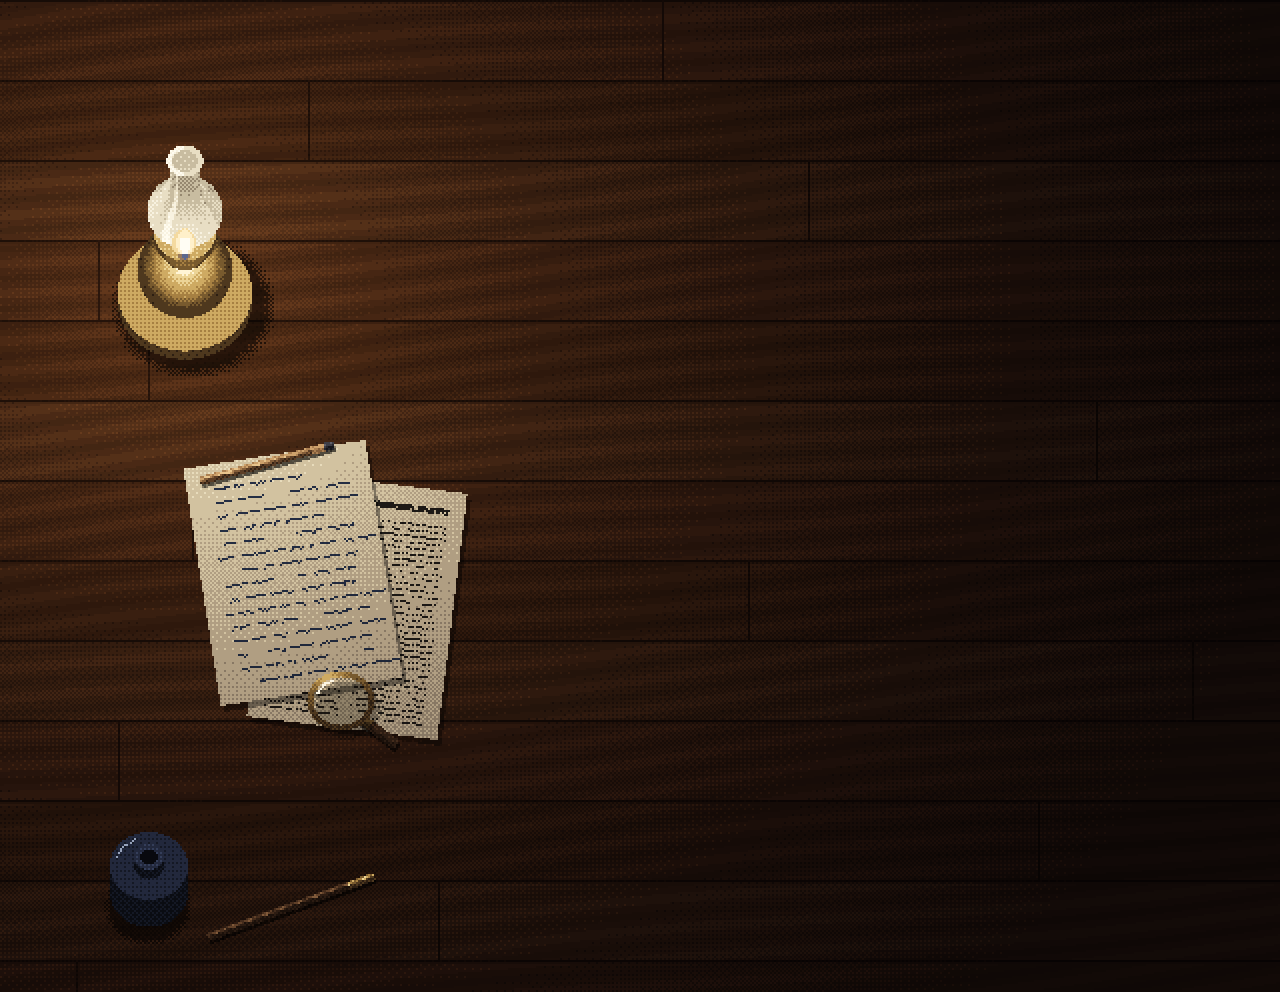
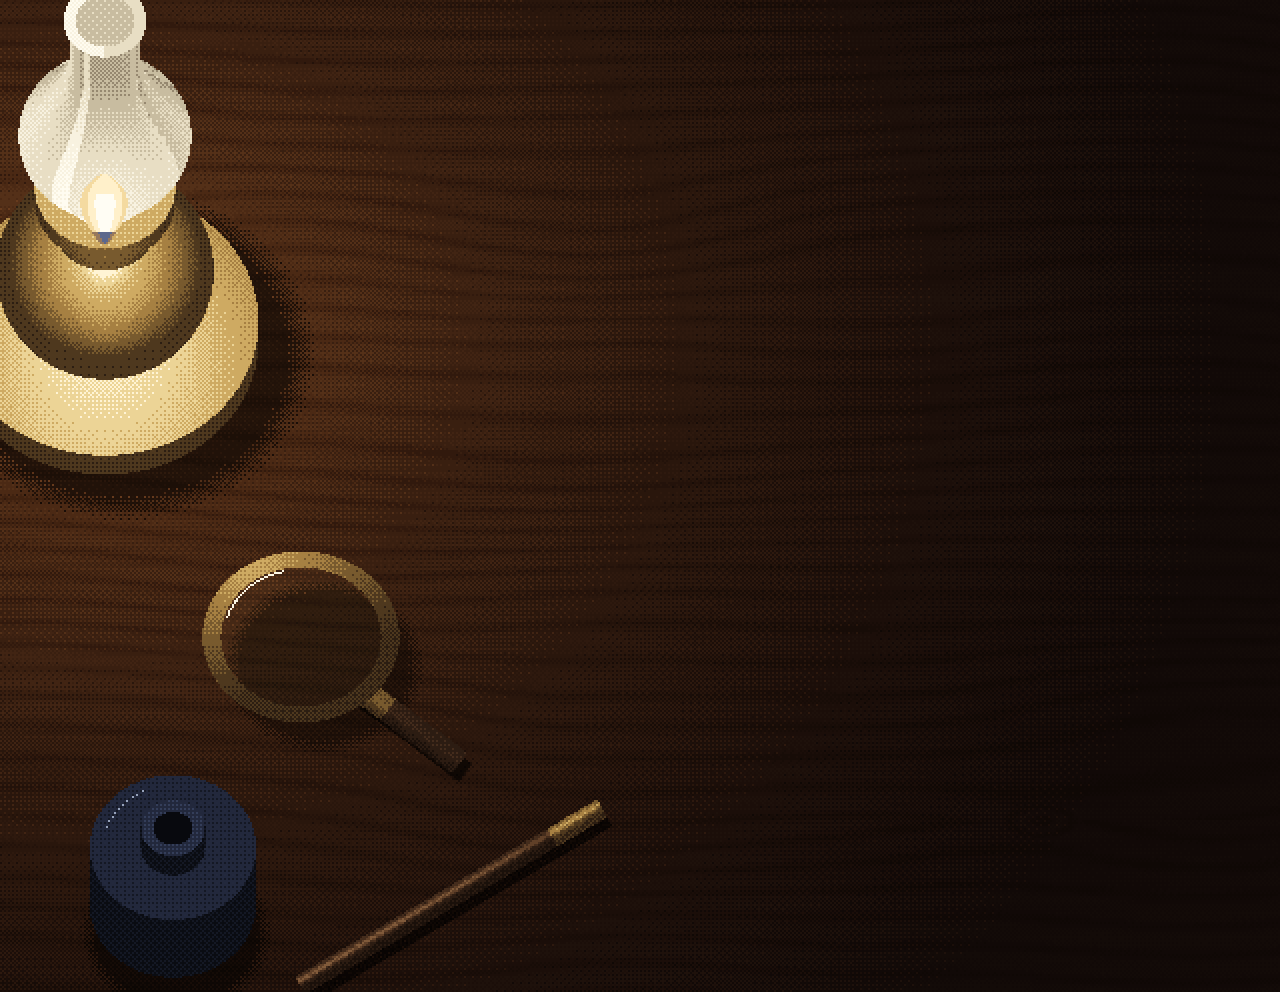
fix: 标题页桌面改为整块木板，油灯放大外移，物件按册子定比例
- 桌面去掉地板式拼缝：纹线近乎平行、贯穿全宽、间距不匀，带一个节疤。
- 油灯放大约一倍并移向左上，灯身一部分出画；底盘按火焰受光，光晕减弱，不再盖掉黄铜。
- 去掉左中的手记、剪报与铅笔；放大镜留在左中桌面上。
- 墨水瓶（约 42 mm）、蘸水笔（约 160 mm，笔尖压在册子下）与放大镜（镜片约 50 mm）
  按 A5 册子的比例（约 1.96 px/mm）重定尺寸。
- 验收截图：artifacts/ui-graphic-design/book-09。

diff --git a/godot_csharp/tools/build_ui_desk.py b/godot_csharp/tools/build_ui_desk.py
@@ -4,7 +4,7 @@
 木桌与黄铜油灯；光照分 7 级，级间 4×4 有序抖色，光池以灯脚为中心、纵向略压。
 灯光取低饱和暖白，不用琥珀（恶魔专属）。原生 640×496，按最近邻放大 2 倍到 1280×992；随机种子固定，可重建。
 
-    desk.png        桌面×灯光，含油灯与桌上物件（墨水瓶与蘸水笔、手记与剪报、放大镜、石墨笔；不含光晕）
+    desk.png        整块木桌面×灯光，含油灯与桌上物件（墨水瓶与蘸水笔、放大镜，尺寸按册子定比例；不含光晕）
                     物件按法线逐像素着色，量化到材质色阶，级间同样用有序抖色
     glow.png        灯焰光晕（RGBA，叠加混合；标题页让它轻微闪动）
     book_light.png  册子表面的乘色光照（屏幕坐标，标题页的册子着色器按屏幕 UV 取样）
@@ -24,9 +24,12 @@ OUT = Path(__file__).resolve().parents[1] / "ShareAsset" / "Internal" / "Props" 
 W, H, S = 640, 496, 2
 ELEV_K = 0.5               # 竖直高度在画面上的缩短（cos 60°）
 ELEV_Q = 0.87              # 水平圆的纵横比（sin 60°）
-LAMP_SCALE = 1.4           # 油灯尺寸倍率
-INK_SCALE = 1.5            # 墨水瓶尺寸倍率
-FOOT = (92, 150)           # 灯脚（光池中心）
+# 尺寸按册子定比例：册子 A5（148 mm 宽）在原生画面上 290 px，约 1.96 px/mm。
+MM = 1.96
+LAMP_SCALE = 3.2           # 油灯尺寸倍率（底盘约 80 mm）
+INK_SCALE = 3.2            # 墨水瓶尺寸倍率（瓶身约 42 mm）
+MAG_SCALE = 2.9            # 放大镜尺寸倍率（镜片约 50 mm）
+FOOT = (52, 170)           # 灯脚（光池中心），靠左上外移，灯身一部分出画
 FLAME_HEIGHT = round(38 * LAMP_SCALE)   # 火焰离桌面的高度（原生像素）
 FLAME = (FOOT[0], FOOT[1] - round(FLAME_HEIGHT * ELEV_K))
 SQUASH = 1 / ELEV_Q
@@ -50,28 +53,53 @@ def ell(x: float, y: float, rx: float, ry: float) -> bool:
     return (x / rx) ** 2 + (y / ry) ** 2 <= 1
 
 
+def value_noise(seed: int, cell: float):
+    rng = random.Random(seed)
+    table = {}
+
+    def at(ix: int, iy: int) -> float:
+        key = (ix, iy)
+        if key not in table:
+            table[key] = rng.random()
+        return table[key]
+
+    def sample(x: float, y: float) -> float:
+        cx, cy = x / cell, y / cell
+        ix, iy = math.floor(cx), math.floor(cy)
+        tx, ty = cx - ix, cy - iy
+        sx, sy = tx * tx * (3 - 2 * tx), ty * ty * (3 - 2 * ty)
+        a = at(ix, iy) * (1 - sx) + at(ix + 1, iy) * sx
+        b = at(ix, iy + 1) * (1 - sx) + at(ix + 1, iy + 1) * sx
+        return a * (1 - sy) + b * sy
+    return sample
+
+
 def wood() -> Image.Image:
-    rng = random.Random(7)
+    """整块木桌面：一块板，没有拼缝。纹线近乎平行、贯穿全宽，间距不匀、缓慢漂移；
+    细纤维沿横向拉长；右下一个节疤，纹线绕开它。三档明暗，档间有序抖色。"""
+    drift = value_noise(7, 260.0)       # 纹线整体的缓慢起伏
+    spacing = value_noise(11, 60.0)     # 纹距的疏密
+    fibre = value_noise(19, 3.0)        # 细纤维（横向拉长取样）
+    knot = (520, 410)
     im = Image.new("RGB", (W, H))
     px = im.load()
-    base = [(120, 78, 50), (112, 72, 46), (126, 84, 54)]
-    plank_h = 40
-    seams = {row: rng.randrange(0, W) for row in range(H // plank_h + 2)}
-    phase = [rng.random() * 6.28 for _ in range(32)]
+    tones = [(96, 60, 38), (112, 72, 46), (126, 84, 54)]
     for y in range(H):
-        row, yy = y // plank_h, y % plank_h
-        c0 = base[row % 3]
         for x in range(W):
-            g = math.sin(x * 0.045 + phase[row % 32] + math.sin(x * 0.011 + row) * 2.2 + yy * 0.42)
-            k = 0.88 + (0.12 if g > 0.55 else 0) - (0.08 if g < -0.75 else 0)
-            c = tuple(int(v * k) for v in c0)
-            if yy == 0:
-                c = (46, 28, 20)
-            elif yy == 1:
-                c = tuple(int(v * 0.8) for v in c0)
-            if x == seams[row]:
-                c = (52, 32, 22)
-            px[x, y] = c
+            kx, ky = (x - knot[0]) / 2.2, y - knot[1]
+            kd = math.hypot(kx, ky)
+            bend = 18.0 * math.exp(-kd / 20.0) * (1 if ky >= 0 else -1)
+            yy = y + 30.0 * drift(x, y * 0.6) + bend
+            phase = yy * 0.22 + 6.0 * spacing(x * 0.4, yy)
+            line = abs(math.sin(phase)) ** 6           # 细而暗的纹线
+            band = spacing(x * 0.25, yy * 1.5)          # 早材晚材的宽窄色带
+            g = 0.55 * line + 0.3 * band + 0.25 * fibre(x * 0.12, y)
+            if kd < 9:
+                g = 0.25 + 0.6 * (math.sin(kd * 1.1) * 0.5 + 0.5)
+            v = max(0.0, min(1.0, 1.0 - g)) * (len(tones) - 1)
+            lo = int(v)
+            i = min(len(tones) - 1, lo + (1 if v - lo > (BAYER[y % 4][x % 4] + 0.5) / 16 else 0))
+            px[x, y] = tones[i]
     return im
 
 
@@ -82,12 +110,7 @@ def wood() -> Image.Image:
 BRASS = [(44, 30, 18), (78, 56, 30), (120, 90, 46), (166, 128, 66), (206, 170, 98), (236, 212, 150), (255, 244, 212)]
 INK_GLASS = [(10, 12, 18), (20, 24, 36), (34, 40, 60), (52, 62, 90), (84, 98, 128), (150, 162, 186), (226, 230, 236)]
 WOOD_DARK = [(26, 16, 10), (44, 28, 18), (68, 44, 28), (96, 64, 40), (128, 90, 58), (170, 128, 86)]
-CEDAR = [(54, 36, 22), (92, 62, 38), (132, 94, 58), (172, 128, 82), (206, 162, 108), (232, 196, 140)]
-PAPER = [(60, 52, 46), (96, 84, 72), (136, 120, 100), (176, 158, 130), (210, 194, 160), (232, 220, 188), (246, 238, 214)]
-GRAPHITE = [(22, 22, 26), (40, 40, 46), (62, 62, 70), (96, 96, 106), (150, 150, 160)]
 GLASS = [(96, 84, 70), (150, 136, 112), (200, 188, 160), (232, 222, 196), (248, 242, 224), (255, 252, 240)]
-HAND_INK = (47, 59, 87)
-PRINT_INK = (40, 34, 30)
 
 
 def ramp(colors, v: float, x: int, y: int):
@@ -114,7 +137,7 @@ def light_at(x: float, y: float, lift: float = 24.0):
     return norm((FLAME[0] - x, FLAME[1] - y, lift))
 
 
-def lit(n, x: int, y: int, ambient=0.18, gloss=0.0, power=24, lift=40.0) -> float:
+def lit(n, x: int, y: int, ambient=0.18, gloss=0.0, power=24, lift=90.0) -> float:
     """漫反射 + 高光，乘上此处的灯光强度。"""
     L = light_at(x, y, lift)
     diffuse = max(0.0, dot(n, L))
@@ -215,7 +238,7 @@ def lamp3d(cv: Canvas) -> None:
     k = LAMP_SCALE
     y_at = lambda h: fy - h * k * ELEV_K
     shadow_ellipse(cv, cx + 3 * k, fy + 2 * k, 30 * k, 30 * k * ELEV_Q, 0.45)
-    cylinder(cv, cx, y_at(6), y_at(0), 24 * k, 24 * k * ELEV_Q, BRASS, gloss=0.35, top_v=0.62)
+    cylinder(cv, cx, y_at(6), y_at(0), 24 * k, 24 * k * ELEV_Q, BRASS, gloss=0.15)
     sphere(cv, cx, y_at(22), 17 * k, 17 * k, BRASS, gloss=0.55)
     cylinder(cv, cx, y_at(44), y_at(36), 8 * k, 8 * k * ELEV_Q, BRASS, gloss=0.6)
     cylinder(cv, cx, y_at(48), y_at(44), 11 * k, 11 * k * ELEV_Q, BRASS, gloss=0.6, top_v=0.7)
@@ -274,8 +297,8 @@ def inkwell(cv: Canvas, cx: int, fy: int) -> None:
     cylinder(cv, cx, fy - 18 * k * ELEV_K, fy, 13 * k, 13 * k * ELEV_Q, INK_GLASS, gloss=0.45, top_v=0.3)
     cylinder(cv, cx, fy - 24 * k * ELEV_K, fy - 18 * k * ELEV_K, 5 * k, 5 * k * ELEV_Q, INK_GLASS, gloss=0.45, top_v=0.38)
     mouth = fy - 24 * k * ELEV_K
-    for y in range(int(mouth) - 6, int(mouth) + 7):
-        for x in range(cx - 6, cx + 7):
+    for y in range(int(mouth - 4 * k), int(mouth + 4 * k) + 1):
+        for x in range(int(cx - 4 * k), int(cx + 4 * k) + 1):
             if ell(x - cx, y - mouth, 3 * k, 3 * k * ELEV_Q):
                 cv.put(x, y, (8, 9, 14))
     # 瓶肩一道弧形反光（朝灯一侧）
@@ -285,71 +308,16 @@ def inkwell(cv: Canvas, cx: int, fy: int) -> None:
         cv.put(int(round(cx + 11 * k * math.cos(theta))), int(round(top + 11 * k * ELEV_Q * math.sin(theta))), INK_GLASS[5])
 
 
-def sheet(cv: Canvas, cx, cy, w, h, angle_deg, kind: str, seed: int) -> list:
-    """一页散纸：kind = hand（本人手记，笔迹色短划）或 print（剪报，两栏印刷灰块与一道标题）。返回四角。"""
-    rng = random.Random(seed)
-    a = math.radians(angle_deg)
-    ca, sa = math.cos(a), math.sin(a)
-    def to_local(x, y):
-        dx, dy = x - cx, y - cy
-        return dx * ca + dy * sa + w / 2, -dx * sa + dy * ca + h / 2
-    corners = [(cx + (u - w / 2) * ca - (v - h / 2) * sa, cy + (u - w / 2) * sa + (v - h / 2) * ca) for u, v in ((0, 0), (w, 0), (w, h), (0, h))]
-    xs = [p[0] for p in corners]
-    ys = [p[1] for p in corners]
-    # 纸很薄：影子只偏 2、3 像素
-    for y in range(int(min(ys)), int(max(ys)) + 4):
-        for x in range(int(min(xs)), int(max(xs)) + 4):
-            u, v = to_local(x - 2, y - 3)
-            if 0 <= u < w and 0 <= v < h:
-                cv.darken(x, y, 0.6)
-    marks = {}
-    if kind == "hand":
-        for row in range(12, h - 8, 7):
-            u = 10 + rng.randint(0, 4)
-            while u < w - 10:
-                length = rng.randint(4, 14)
-                if rng.random() > 0.12:
-                    for k in range(length):
-                        marks[(u + k, row + (1 if rng.random() < 0.15 else 0))] = HAND_INK
-                u += length + rng.randint(2, 4)
-            if rng.random() < 0.25:
-                row += 3
-    else:
-        for u in range(8, w - 8):
-            for v in (9, 10, 11):
-                if rng.random() < 0.85:
-                    marks[(u, v)] = PRINT_INK
-        col_w = (w - 22) // 2
-        for col in range(2):
-            u0 = 8 + col * (col_w + 6)
-            for row in range(18, h - 6, 3):
-                for u in range(u0, u0 + col_w):
-                    if rng.random() < 0.55:
-                        marks[(u, row)] = PRINT_INK
-    for y in range(int(min(ys)) - 1, int(max(ys)) + 2):
-        for x in range(int(min(xs)) - 1, int(max(xs)) + 2):
-            u, v = to_local(x, y)
-            if not (0 <= u < w and 0 <= v < h):
-                continue
-            light = desk_light(x, y) * 1.08
-            ink = marks.get((int(u), int(v)))
-            if ink is not None:
-                k = 0.35 + 0.65 * light
-                cv.put(x, y, tuple(int(c * k) for c in ink))
-            else:
-                cv.put(x, y, ramp(PAPER, light, x, y))
-    return corners
-
-
 def magnifier(cv: Canvas, cx: int, cy: int) -> None:
     """侦探的放大镜：黄铜圆框（3/4 俯视成椭圆）、短柄；镜片下的纸被放大得更亮，内缘一道高光。"""
-    rx, ring = 17.0, 3.2
+    k = MAG_SCALE
+    rx, ring = 17.0 * k, 3.2 * k
     ry = rx * ELEV_Q
     handle_a = (cx + rx * 0.72, cy + ry * 0.72)
-    handle_b = (cx + rx * 0.72 + 15, cy + ry * 0.72 + 11)
-    stroke(cv, (handle_a[0] - 2, handle_a[1] - 1.5), (handle_a[0] + 3, handle_a[1] + 2), 4, BRASS)
-    stroke(cv, (handle_a[0] + 3, handle_a[1] + 2), handle_b, 4, WOOD_DARK)
-    shadow_ellipse(cv, cx + 3, cy + 4, rx + 1, ry + 1, 0.7)
+    handle_b = (cx + rx * 0.72 + 15 * k, cy + ry * 0.72 + 11 * k)
+    shadow_ellipse(cv, cx + 4 * k, cy + 5 * k, rx + 1, ry + 1, 0.62)
+    stroke(cv, (handle_a[0] - 2 * k, handle_a[1] - 1.5 * k), (handle_a[0] + 3 * k, handle_a[1] + 2 * k), 4 * k, BRASS, shadow=(3, 5))
+    stroke(cv, (handle_a[0] + 3 * k, handle_a[1] + 2 * k), handle_b, 4 * k, WOOD_DARK, shadow=(3, 5))
     for y in range(int(cy - ry) - 1, int(cy + ry) + 2):
         for x in range(int(cx - rx) - 1, int(cx + rx) + 2):
             outer = ell(x - cx, y - cy, rx, ry)
@@ -363,37 +331,23 @@ def magnifier(cv: Canvas, cx: int, cy: int) -> None:
             theta = math.atan2((y - cy) / ry, (x - cx) / rx)
             n = norm((math.cos(theta), math.sin(theta) - 0.3, 0.8))
             cv.put(x, y, ramp(BRASS, lit(n, x, y, gloss=0.9), x, y))
-    for i in range(14):
-        theta = math.radians(200 + i * 4)
+    for i in range(40):
+        theta = math.radians(198 + i * 1.5)
         x = int(round(cx + (rx - ring - 1.5) * math.cos(theta)))
         y = int(round(cy + (ry - ring * ELEV_Q - 1.2) * math.sin(theta)))
         cv.put(x, y, (252, 246, 228))
 
 
-def pencil(cv: Canvas, a, b) -> None:
-    """石墨笔：木杆，削尖的一端露出木色锥面与笔芯。"""
-    def colors(s):
-        if s > 0.94:
-            return GRAPHITE
-        if s > 0.84:
-            return CEDAR[2:]
-        return CEDAR
-    stroke(cv, a, b, 3, colors)
-
-
-def dip_pen(cv: Canvas, a, b) -> None:
-    """蘸水笔：深色木杆，前端一截黄铜笔舌。"""
-    stroke(cv, a, b, 3, lambda s: BRASS if s > 0.86 else WOOD_DARK)
+def dip_pen(cv: Canvas, a, b, width: float = 9) -> None:
+    """蘸水笔：深色木杆渐细，前端一截黄铜笔舌（约 160 mm 长、5 mm 粗）。"""
+    stroke(cv, a, b, width, lambda s: BRASS if s > 0.84 else WOOD_DARK, shadow=(3, 5))
 
 
 def desk_objects(cv: Canvas) -> None:
+    magnifier(cv, 150, 318)
+    inkwell(cv, 86, 452)
+    dip_pen(cv, (150, 492), (300, 404))
     lamp3d(cv)
-    sheet(cv, 178, 302, 96, 124, 7, "print", 3)
-    sheet(cv, 146, 286, 92, 120, -9, "hand", 5)
-    pencil(cv, (100, 240), (166, 222))
-    magnifier(cv, 170, 350)
-    inkwell(cv, 74, 446)
-    dip_pen(cv, (104, 468), (186, 438))
 
 
 def glow() -> Image.Image:
@@ -403,11 +357,11 @@ def glow() -> Image.Image:
     for y in range(H):
         for x in range(W):
             d = math.hypot(x - FLAME[0], (y - FLAME[1]) * 1.05)
-            v = max(0.0, 1 - d / 120.0) ** 1.4 * 3
+            v = max(0.0, 1 - d / 170.0) ** 1.4 * 3
             lo = int(v)
             lv = min(3, lo + (1 if v - lo > (BAYER[y % 4][x % 4] + 0.5) / 16 else 0))
             if lv:
-                px[x, y] = (255, 238, 200, (0, 34, 70, 120)[lv])
+                px[x, y] = (255, 238, 200, (0, 24, 50, 88)[lv])
     return im
 
 

diff --git a/docs/design-standard.md b/docs/design-standard.md
@@ -1214,7 +1214,7 @@ Core 不出现专案名词。
 | 学园图 `CampusMap/CampusMap` | 纸面上的线路图：线只走水平、垂直、45°，站点空心圆，当前站点笔迹色实心并手写“你在这里”；编辑器预览读 Workbench 样例 |
 | 设置册 `Settings/SettingsBook` | 摊开的册子，三张索引签：凡例（左页画面、声音，右页语言、无障碍）、操作（按移动 / 现场 / 对话 / 回放 / 系统分组改键，含快进按住或切换）、书签（三个存档位与所选书签的详情；撕去书签 / 夹在此页 / 从此处读起）。现场与对话中按设置键（F1）打开，现场空闲时返回键（Esc）也打开；标题页由“凡例”打开。读写都经 `GameSettings` |
 | 章末卡 `Ending/EndingCard` | 报纸头版式：通栏标题、副题（`outcome`）、各行分栏列出 |
-| 标题页 `Title/Title` | 油灯下木桌上合着的一本册子，竖开 1 : √2，在桌面上斜放约 4°；近俯视（约 60° 往下看，竖直高度减半，水平的圆接近正圆）：册子平放，近侧露出一线书页厚度，投影硬边偏向右下；油灯、墨水瓶与蘸水笔、本人手记与剪报、放大镜、石墨笔都按法线逐像素着色，再量化到各自材质的几级色阶、级间有序抖色，与桌面光照同一手法；光池以灯脚为中心、纵向略压。封面在不旋转的子视口里排版，显示时旋转并按最近邻取样；点击坐标经同一变换的逆变换映回封面坐标，自动检查须覆盖每个菜单项旋转后四角内侧的命中。布面封皮贴题签：公有领域铜版图版（如《Campi Phlegraei》，出处与许可证随素材保存）、像素报头书名、双线、菜单（开始阅读 / 续读 / 凡例 / 合卷；无书签时续读不可点）。灯光是像素光照：分七级，级间 4×4 有序抖色，不用平滑渐变；册子比桌面亮，是画面主体；灯焰可轻微闪动，“减少动效”时静止。灯光取低饱和暖白，不用琥珀（恶魔专属）。不放剧情文字 |
+| 标题页 `Title/Title` | 油灯下木桌上合着的一本册子，竖开 1 : √2，在桌面上斜放约 4°；近俯视（约 60° 往下看，竖直高度减半，水平的圆接近正圆）：册子平放，近侧露出一线书页厚度，投影硬边偏向右下；桌面是整块木板（纹线贯穿、无拼缝）；物件尺寸按册子（A5）定比例：油灯放大、靠左上外移且一部分出画，墨水瓶与蘸水笔在左下、笔尖压在册子下，放大镜在左中；物件都按法线逐像素着色，再量化到各自材质的几级色阶、级间有序抖色，与桌面光照同一手法；光池以灯脚为中心、纵向略压。封面在不旋转的子视口里排版，显示时旋转并按最近邻取样；点击坐标经同一变换的逆变换映回封面坐标，自动检查须覆盖每个菜单项旋转后四角内侧的命中。布面封皮贴题签：公有领域铜版图版（如《Campi Phlegraei》，出处与许可证随素材保存）、像素报头书名、双线、菜单（开始阅读 / 续读 / 凡例 / 合卷；无书签时续读不可点）。灯光是像素光照：分七级，级间 4×4 有序抖色，不用平滑渐变；册子比桌面亮，是画面主体；灯焰可轻微闪动，“减少动效”时静止。灯光取低饱和暖白，不用琥珀（恶魔专属）。不放剧情文字 |
 
 **7.1 外观设置的落地**（`UI/Components/UIAppearance.gd`）：纸面纹理、文字大小、高对比、简明字体只改三份界面主题里已有的条目——字号按倍率缩放，高对比把淡墨与规线换成墨色，纸纹换成纯纸色纹理，简明字体把仿旧打字机、手写、行书、美术字换成思源宋体 / 黑体——不给节点加覆盖、不新建样式盒，关掉即还原原值。像素标题关掉时 `PaperPixelText` 按原尺寸平滑渲染；减少动效时印戳不弹跳、镜头直接切换、标题页灯焰不闪。没有实际效果的选项不放进设置册。
 
